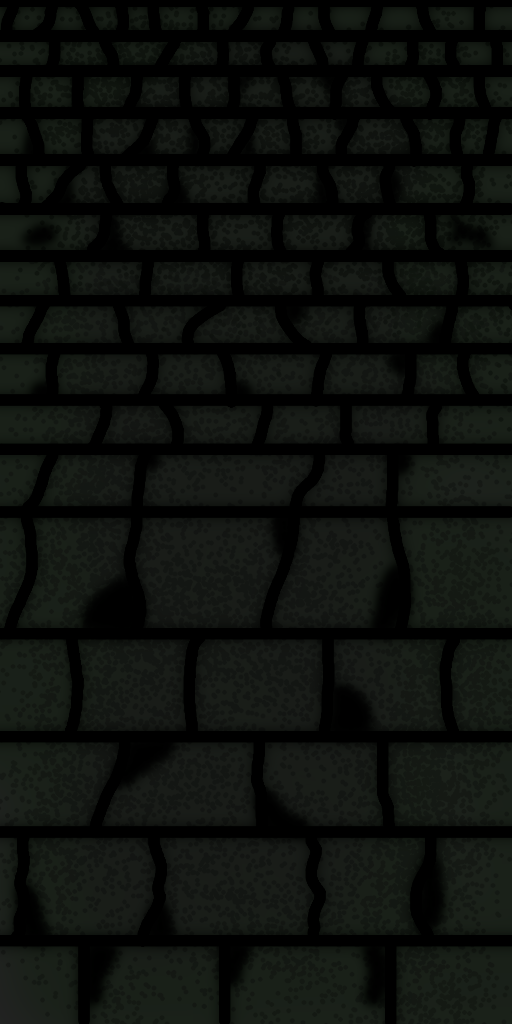
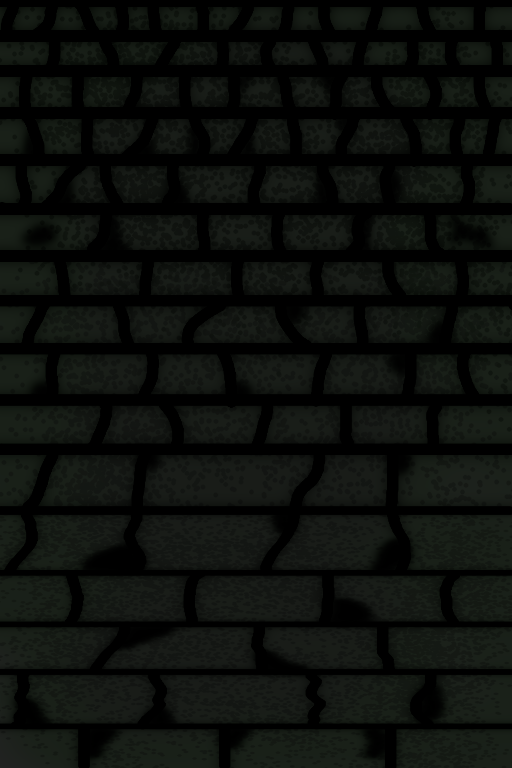
Fix wall texture

diff --git a/src/game/Wall/Wall.ts b/src/game/Wall/Wall.ts
@@ -23,8 +23,8 @@ export class Wall implements GameObject {
                 if (this.matrix[i][j]) {
                     drawTexture(wall, context, new Coordinates(
                         center.x + scale.x * j,
-                        center.y - scale.y * (this.matrix.length - i - 1) - scale.y * 0.5,
-                    ), new Coordinates(scale.x, scale.y * 2));
+                        center.y - scale.y * (this.matrix.length - i - 1) - scale.y * 0.25,
+                    ), new Coordinates(scale.x, scale.y * 1.5));
                 }
             }
         }
